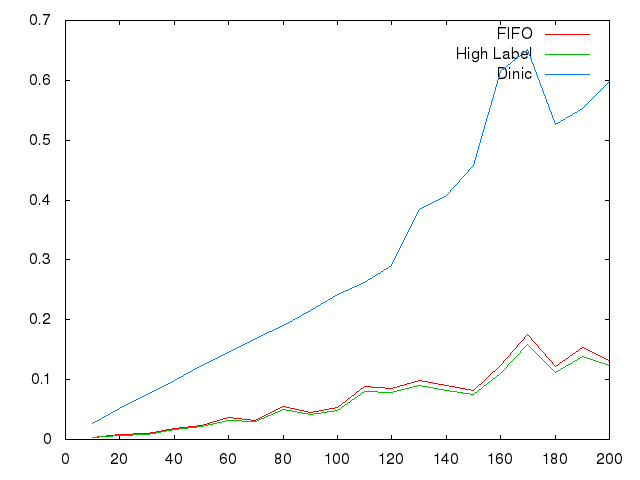
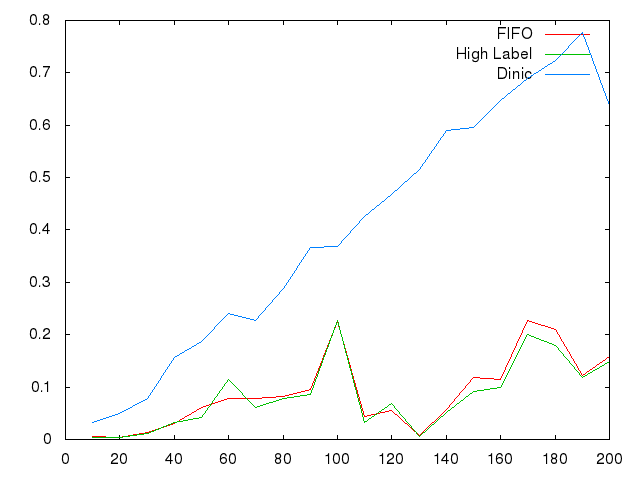
Optimisation qui tourne

diff --git a/data_struct/src/algo.c b/data_struct/src/algo.c
@@ -395,10 +395,10 @@ void compLabel (Graph *g, Graph *diff, int p, int s) {
 		}
 	}
 
-	for (i=0; i<nbVert(diff); i++)
-		printf ("%d(%d) - ", i, lab(diff,i));
+/* for (i=0; i<nbVert(diff); i++)
+		printf ("%d(%d) - ", i, lab(diff,i)); */
 
-	printf ("\n");
+	//printf ("\n");
 
 	free (visited);
 }
@@ -430,7 +430,7 @@ void relabel (Graph *capa, Graph *flow, Graph *diff, int k, int p) {
 	//	List *out = diff->_lg->_outNeighb[k];
 	List *out = allocList();
 
-	printf ("Je relabel\n");
+	//printf ("Je relabel\n");
 
 	int n_label = 0;
 	Item *itc = begin(outcapa);
@@ -469,19 +469,19 @@ void relabel (Graph *capa, Graph *flow, Graph *diff, int k, int p) {
 			itc = next(itc);
 		}
 
-	printf("Fin de construction de file.\n");
-	printList(stdout, out);
+	//printf("Fin de construction de file.\n");
+	//printList(stdout, out);
 
 	Item *it = begin (out);
 
-	printf ("%d(%d) - ", k, lab(diff, k));
+	//printf ("%d(%d) - ", k, lab(diff, k));
 
-	while (it) {
+/*  while (it) {
 		printf ("%d(%d) - ", num(it), lab(diff,num(it)));
 		it = next(it);
-	}
+	}*/
 
-	printf ("\n");
+	//printf ("\n");
 
 	it = begin(out);
 
@@ -518,24 +518,74 @@ void relabel (Graph *capa, Graph *flow, Graph *diff, int k, int p) {
 					setEdge (diff, k, num(it), val(it));
 				else
 					setEdge (diff, k, num(it), 0);
-			}
+				}
 			it = next (it);
 		}
-	}
-	else {
-		printf("C'est le bordel.\n");
-		printf("Noeud %d(%d) n'a pas de majorant.\n", k, lab(diff,k));
-		int z = 0;
-		it = begin(out);
+		List *in = allocList();
+		List *cin = capa->_lg->_inNeighb[k];
+		List *fout = flow->_lg->_outNeighb[k];
+
+		Item *ci = begin(cin);
+		Item *fo = begin(fout);
+
+		while (ci && fo) {
+			if (num(ci) < num(fo)) {
+				if (num(ci) != k)
+					pushTail (in, num(ci), val(ci));
+				ci = next(ci);
+			}
+			else if (num(fo) < num(ci)) {
+				if (num(fo) != k)
+					pushTail (in, num(fo), val(fo));
+				fo = next(fo);
+			}
+			else {
+				if (num(fo) != k)
+					pushTail (in, num(fo), val(fo) + val(ci));
+				fo = next(fo);
+				ci = next(ci);
+			}
+		}
+
+		while (fo) {
+			if (num(fo) != k)
+				pushTail (in, num(fo), val(fo));
+			fo = next(fo);
+		}
+
+		while (ci) {
+			if (num(ci) != k)
+				pushTail(in, num(ci), val(ci));
+			ci = next(ci);
+		}
+
+		it = begin(in);
 		while (it) {
-			printf ("%d(%d) - ", num(it), lab(diff,num(it)));
+			if (num(it) != p) {
+				if (lab(diff, num(it)) == lab(diff, k) + 1)
+					setEdge(diff, num(it), k, val(it));
+				else
+					setEdge(diff, num(it), k, 0);
+			}
 			it = next(it);
 		}
 
-		printf ("\n");
+		freeList(in);
+	}
+	else {
+		//printf("C'est le bordel.\n");
+		//printf("Noeud %d(%d) n'a pas de majorant.\n", k, lab(diff,k));
+		int z = 0;
+		it = begin(out);
+/*		while (it) {
+			printf ("%d(%d) - ", num(it), lab(diff,num(it)));
+			it = next(it);
+		}*/
+
+		//printf ("\n");
 	}
 
-	printf("Nouvelle hauteur : %d \n", n_label);
+	//printf("Nouvelle hauteur : %d \n", n_label);
 
 	freeList(out);
 }
@@ -548,17 +598,17 @@ int algoFIFO (Graph *capa, Graph *diff, Graph *flow, int s, int p) {
 	// Initialization
 	compLabel (capa, diff, p, s);
 
-	for (i=0; i<nbVert(diff); i++)
-		printf ("%d(%d) - ", i, lab(diff,i));
+//	for (i=0; i<nbVert(diff); i++)
+	//	printf ("%d(%d) - ", i, lab(diff,i));
 
-	printf ("\n");
+	//printf ("\n");
 
-	printf("Capacité : \n");
-	printGraph(stdout, capa, 0, &pref);
-	printf("Diff : \n");
-	printGraph(stdout, diff, 0, &pref);
-	printf("Flow : \n");
-	printGraph(stdout, flow, 0, &pref);
+	//printf("Capacité : \n");
+	//printGraph(stdout, capa, 0, &pref);
+	//printf("Diff : \n");
+	//printGraph(stdout, diff, 0, &pref);
+	//printf("Flow : \n");
+	//printGraph(stdout, flow, 0, &pref);
 
 	if (lab(diff,s) == -1)
 		return 0;
@@ -580,14 +630,14 @@ int algoFIFO (Graph *capa, Graph *diff, Graph *flow, int s, int p) {
 		if (delta) {
 			if (j != p)
 				pushTail(excess_node, j, 0);
-			printf ("Je pousse de %d à %d avec %d.\n", s, j, delta);
+			//printf ("Je pousse de %d à %d avec %d.\n", s, j, delta);
 
-			printf("Capacité : \n");
-			printGraph(stdout, capa, 0, &pref);
-			printf("Diff : \n");
-			printGraph(stdout, diff, 0, &pref);
-			printf("Flow : \n");
-			printGraph(stdout, flow, 0, &pref);
+			//printf("Capacité : \n");
+			//printGraph(stdout, capa, 0, &pref);
+			//printf("Diff : \n");
+			//printGraph(stdout, diff, 0, &pref);
+			//printf("Flow : \n");
+			//printGraph(stdout, flow, 0, &pref);
 
 			exc(diff,j)+=delta;
 		}
@@ -621,14 +671,14 @@ int algoFIFO (Graph *capa, Graph *diff, Graph *flow, int s, int p) {
 					pushTail (excess_node, j, 0);
 				exc(diff, j) += delta;
 				exc(diff, k) -= delta;
-				printf ("Je pousse de %d à %d avec %d.\n", k, j, delta);
+				//printf ("Je pousse de %d à %d avec %d.\n", k, j, delta);
 
-				printf("Capacité : \n");
-				printGraph(stdout, capa, 0, &pref);
-				printf("Diff : \n");
-				printGraph(stdout, diff, 0, &pref);
-				printf("Flow : \n");
-				printGraph(stdout, flow, 0, &pref);
+				//printf("Capacité : \n");
+				//printGraph(stdout, capa, 0, &pref);
+				//printf("Diff : \n");
+				//printGraph(stdout, diff, 0, &pref);
+				//printf("Flow : \n");
+				//printGraph(stdout, flow, 0, &pref);
 
 				/*if (num(it) == s)
 					it = next(it);
@@ -640,7 +690,7 @@ int algoFIFO (Graph *capa, Graph *diff, Graph *flow, int s, int p) {
 			it = next(it);
 		}
 		if (exc(diff,k) && k!=s && k!=p) {
-			printf ("Relabel %d(%d).\n", k, lab(diff,k));
+			//printf ("Relabel %d(%d).\n", k, lab(diff,k));
 			relabel (capa, flow, diff, k, p);
 			//printf ("Noeud %d, Excedent %d, Hauteur : %d\n", k, exc(diff,k), lab(diff,k));
 			pushTail(excess_node, k, 0);
@@ -660,12 +710,12 @@ int algoLabel (Graph *capa, Graph *diff, Graph *flow, int s, int p) {
 	// Initialization
 	compLabel (capa, diff, p, s);
 
-	printf ("\n\n Capacité : \n\n");
-	printGraph (stdout, capa, 0, &pref);
-	printf ("\n\n Diff : \n\n");
-	printGraph (stdout, diff, 0, &pref);
-	printf ("\n\n Flow : \n\n");
-	printGraph (stdout, flow, 0, &pref);
+	//printf ("\n\n Capacité : \n\n");
+	//printGraph (stdout, capa, 0, &pref);
+	//printf ("\n\n Diff : \n\n");
+	//printGraph (stdout, diff, 0, &pref);
+	//printf ("\n\n Flow : \n\n");
+	//printGraph (stdout, flow, 0, &pref);
 
 	if (lab(diff,s) == -1)
 		return 0;
@@ -684,10 +734,10 @@ int algoLabel (Graph *capa, Graph *diff, Graph *flow, int s, int p) {
 		}
 		int delta = push (flow, diff, s, j, s, p);
 		if (delta) {
-			printf ("Je pousse de %d vers %d avec un flow de %d.\n", s, j, delta);
-			printGraph (stdout, capa, 0, &pref);
-			printGraph (stdout, diff, 0, &pref);
-			printGraph (stdout, flow, 0, &pref);
+			//printf ("Je pousse de %d vers %d avec un flow de %d.\n", s, j, delta);
+			//printGraph (stdout, capa, 0, &pref);
+			//printGraph (stdout, diff, 0, &pref);
+			//printGraph (stdout, flow, 0, &pref);
 			if (j != p)
 				h_insertNode (excess_node, j);
 			exc(diff,j)+=delta;
@@ -714,10 +764,10 @@ int algoLabel (Graph *capa, Graph *diff, Graph *flow, int s, int p) {
 			}
 			int delta = push (flow, diff, k, j, s, p);
 			if (delta) {
-				printf ("Je pousse de %d vers %d avec un flow de %d.\n", s, j, delta);
-				printGraph (stdout, capa, 0, &pref);
-				printGraph (stdout, diff, 0, &pref);
-				printGraph (stdout, flow, 0, &pref);
+				//printf ("Je pousse de %d vers %d avec un flow de %d.\n", s, j, delta);
+				//printGraph (stdout, capa, 0, &pref);
+				//printGraph (stdout, diff, 0, &pref);
+				//printGraph (stdout, flow, 0, &pref);
 				if (j != p && j != s && !exc(diff,j))
 					h_insertNode (excess_node, j);
 				exc(diff, j) += delta;
@@ -728,10 +778,10 @@ int algoLabel (Graph *capa, Graph *diff, Graph *flow, int s, int p) {
 		if (exc(diff,k)) {
 			if (k!=s && k!=p) {
 				relabel (capa, flow, diff, k, p);
-				printf ("Je relabel %d.\n", k);
-				printGraph (stdout, capa, 0, &pref);
-				printGraph (stdout, diff, 0, &pref);
-				printGraph (stdout, flow, 0, &pref);
+				//printf ("Je relabel %d.\n", k);
+				//printGraph (stdout, capa, 0, &pref);
+				//printGraph (stdout, diff, 0, &pref);
+				//printGraph (stdout, flow, 0, &pref);
 				//printf ("Noeud %d, Excedent %d, Hauteur : %d\n", k, exc(diff,k), lab(diff,k));
 				h_insertNode (excess_node, k);
 			}

diff --git a/data_struct/src/bench.c b/data_struct/src/bench.c
@@ -24,6 +24,8 @@ stat_t elapsedTime (int n, int m, int c, int nb_iter) {
     Graph * lfFIFO = allocGraph(lcFIFO);
     Graph * ldFIFO = allocGraph(lcFIFO);
 
+//		printf("\n\n FIFO :\n\n");
+
 //		printf ("Entrée FIFO\n");
 		g_timer_start(timer);
     h=algoFIFO (lcFIFO,ldFIFO,lfFIFO,0,1);
@@ -42,6 +44,7 @@ stat_t elapsedTime (int n, int m, int c, int nb_iter) {
 
 //			printf ("Entrée High Label\n");
 			g_timer_start(timer);
+//		printf("\n\n Label :\n\n");
 			g=algoLabel (lcLab,ldLab,lfLab,0,1);
 			g_timer_stop(timer);
 			result._st2 += (double) g_timer_elapsed(timer, NULL);
@@ -51,6 +54,7 @@ stat_t elapsedTime (int n, int m, int c, int nb_iter) {
 			freeGraph(lfLab); freeGraph(ldLab);
 
 
+//		printf("\n\n Dinic :\n\n");
 			// Dinic Algorithm
 			Graph * lfDinic = allocGraph(lcLab);
 
@@ -62,24 +66,26 @@ stat_t elapsedTime (int n, int m, int c, int nb_iter) {
 			g_timer_reset(timer);
 //			printf("Sortie Dinic\n");
 
-			freeGraph (lfDinic);
+//			freeGraph (lfDinic);
 
 //			printf ("%d %d %d \n", f, g, h);
 			if (f!=g || g!=h)
 				result._st4 ++;
 		}
 		else {
-			printf ("Flot nul.\n");
+//			printf ("Flot nul.\n");
 			g_timer_reset(timer);
 			i --;
 		}
 
 		if (f!=h || g!=h)
-			printf ("Erreur\n");
+//			printf ("Erreur\n");
     
 		freeGraph (lcFIFO); 
 		freeGraph (lcLab);
 		freeGraph (lcDinic);
+
+//		printf("\n\n FIN\n\n");
 	}
 
 	result._st1 /= nb_iter;

diff --git a/data_struct/src/test.c b/data_struct/src/test.c
@@ -8,7 +8,7 @@
 
 #define MAX_NOEUDS 200
 #define SCALE 10
-#define RATIO 1
+#define RATIO 200
 
 int main (int argc, char ** argv)
 {    
